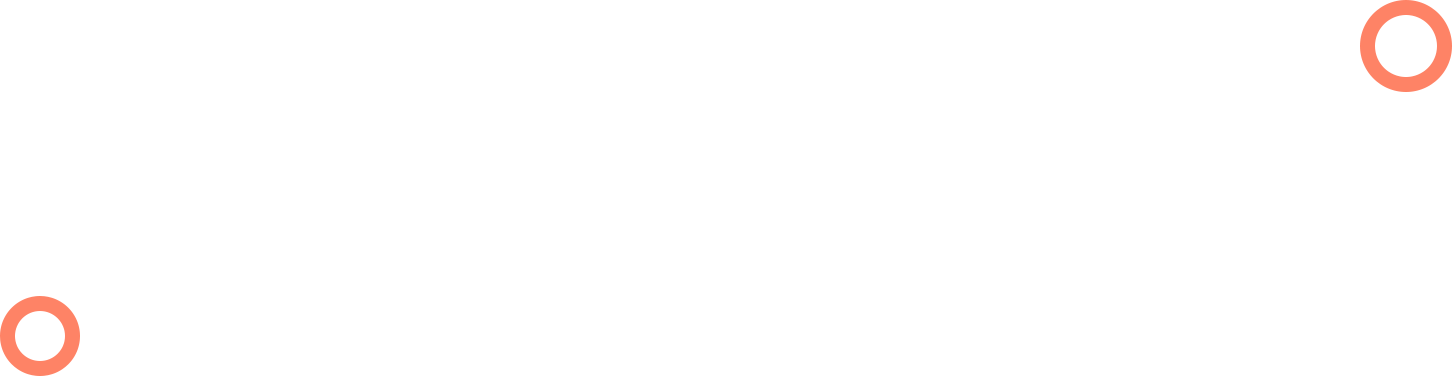
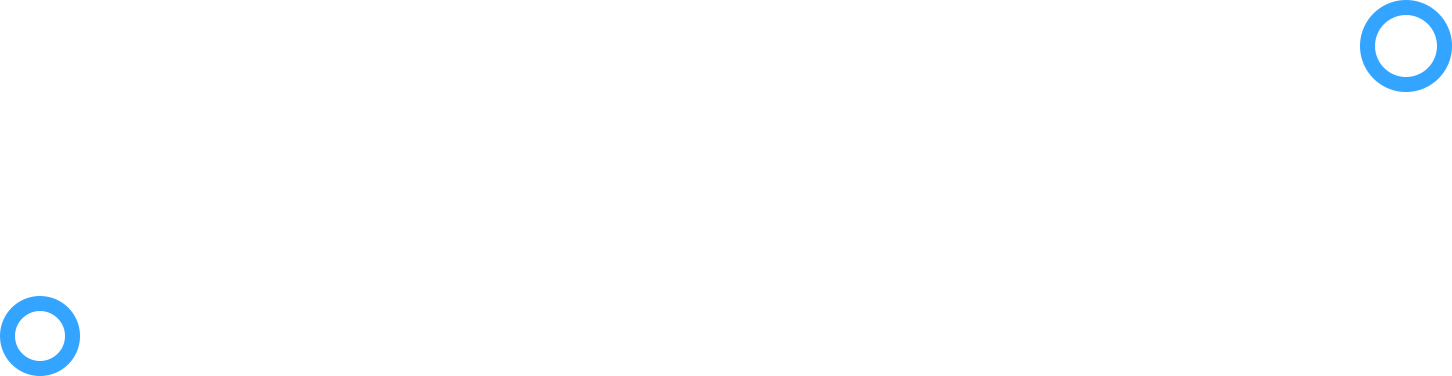
cambios

Changed region(s): [[0.9298, 0.0, 1.0, 0.2633], [0.0, 0.7899, 0.062, 1.0]]

diff --git a/css/style.css b/css/style.css
@@ -783,7 +783,7 @@ text-transform: uppercase;}
     top: 10px;
     bottom: 10px;
     border-radius: 10px;
-  background-color: #fe8366;
+  background-color: rgb(64, 164, 223);
   box-shadow: 2.5px 4.33px 15px 0px rgba(250, 162, 146, 0.4);
     color: #fff;
    
@@ -1060,7 +1060,7 @@ border: 2px solid #fe8366;
     color: #777;
 }
 .btn.ss-btn {
-    background: #fe8366;
+    background: rgb(64, 164, 223);
     border-radius: 10px;
     color: #FFF;
     padding:20px 30px;
@@ -1152,12 +1152,12 @@ display: block;
     font-weight: 600;
     width: 100%;
     border-radius: 50%;
-    border: 2px dashed #fe8366;
+    border: 2px dashed #007bff;
     padding-top: 19px;
     line-height: 20px;
 }
 .about-text .all-text h3 {
-    color: #fe8366;
+    color: #40a4df;
     font-size: 36px;
     margin-bottom: 0;
 }
@@ -1185,7 +1185,7 @@ display: block;
     line-height: 1.4;
 }
 .about-title h5{
-   color: #fe8366;
+   color: #007bff;
     font-size: 22px;
     margin-bottom: 15px;
 }
@@ -1444,7 +1444,7 @@ display: inline-block;
 margin: 0 10px;
 }
 .section-title h5{
-    color: #fe8366;
+    color: #007bff ;
     margin-bottom: 15px;
 }
 .section-title h2 {
@@ -1503,7 +1503,7 @@ section:hover .section-title h2::before{width: 100px;}
     font-family: "Font Awesome 5 Pro";
     content: "";
     margin-right: 10px;
-    color: #fe8366;
+    color: rgb(64, 164, 223);
     font-size: 25px;
 margin-top: 5px;
 }
@@ -3636,7 +3636,7 @@ margin-top: 30px;
 }
 .pricing-btn .btn.ss-btn{
    border-radius: 10px;
-background-color: #fe8366;
+background-color: rgb(254, 131, 102);
 box-shadow: 2.5px 4.33px 15px 0px rgba(250, 162, 146, 0.4);
 color: #fff;
 border-color: #4CC3C1;
